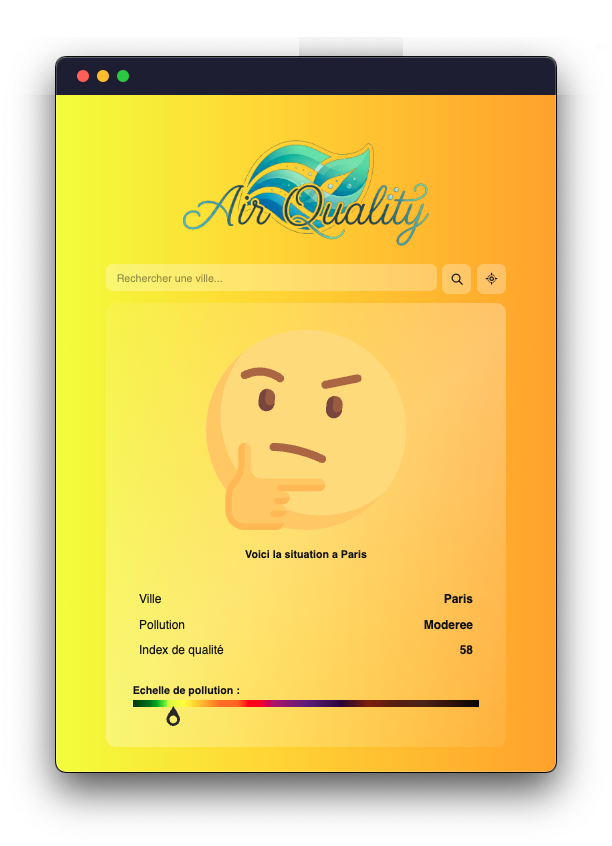
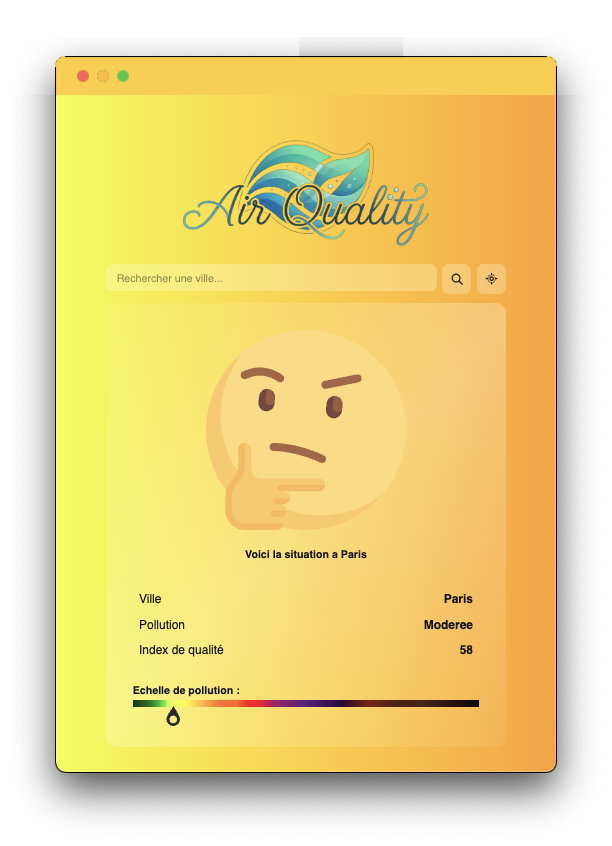
💄 design improvements

diff --git a/src/js/main.js b/src/js/main.js
@@ -1,24 +1,1 @@
-var API_KEY = '0f480cce-edee-4f6e-b0f6-f9e975e4b96f'; var AIRVISUAL = 'https://api.airvisual.com/v2/nearest_city'; var NOMINATIM = 'https://nominatim.openstreetmap.org/search'; var _cache = new Map(); function cacheGet(k) { var e = _cache.get(k); if (!e) return null; if (Date.now() > e.exp) { _cache.delete(k); return null } return e.v } function cacheSet(k, v) { _cache.set(k, { v: v, exp: Date.now() + 300000 }) } var pollutionScale = [{ scale: [0, 50], quality: 'Respirable', src: 'happy', background: 'linear-gradient(to right,#154734,#C4FF33)' }, { scale: [51, 100], quality: 'Moderee', src: 'thinking', background: 'linear-gradient(to right,#f2ff00,#FFAF00)' }, { scale: [101, 150], quality: 'Mauvais', src: 'unhealthy', background: 'linear-gradient(to right,#FFA400,#ff6600)' }, { scale: [151, 200], quality: 'Assez mauvais', src: 'bad', background: 'linear-gradient(to right,#FF5733,#cb2d3e)' }, { scale: [201, 300], quality: 'Vraiment mauvais', src: 'mask', background: 'linear-gradient(to right,#8E54E9,#260038)' }, { scale: [301, Infinity], quality: 'Dangereux', src: 'terrible', background: 'linear-gradient(to right,#572121,#1a0904)' }]; function getScaleEntry(aqi) { return pollutionScale.find(function (o) { return aqi >= o.scale[0] && aqi <= o.scale[1] }) }
-// Extrait le premier #rrggbb du gradient pour theme-color (qui n'accepte que les couleurs solides)
-function extractFirstColor(gradient) { var m = gradient.match(/#[0-9a-fA-F]{6}/); return m ? m[0] : '#4ba0d9' } var loader = document.querySelector('.loader'); var emojiLogo = document.querySelector('.emoji'); var userInformation = document.querySelector('.user-information'); var cityNameEl = document.querySelector('.city-name'); var pollutionInfo = document.querySelector('.pollution-info'); var pollutionValue = document.querySelector('.pollution-value'); var backgroundLayer = document.querySelector('.background-layer'); var locationPointer = document.querySelector('.location-pointer'); var citySearch = document.querySelector('.city-search'); var searchBtn = document.querySelector('.search-btn'); var locationBtn = document.querySelector('.location-btn'); var dropdown = document.getElementById('autocomplete-dropdown'); var themeColorMeta = document.querySelector('meta[name="theme-color"]'); function showLoader() { loader.setAttribute('aria-busy', 'true'); loader.classList.add('active') }
-function hideLoader() { loader.setAttribute('aria-busy', 'false'); loader.classList.remove('active') }
-function showError(msg) { hideLoader(); emojiLogo.src = './src/icons/browser.svg'; userInformation.textContent = msg }
-function getByGeolocation() { citySearch.value = ''; if (!navigator.geolocation) { return getPollutionByIP() } showLoader(); navigator.geolocation.getCurrentPosition(function (pos) { var lat = pos.coords.latitude.toFixed(4); var lon = pos.coords.longitude.toFixed(4); getPollutionByCoords(lat, lon).catch(function () { getPollutionByIP() }) }, function () { getPollutionByIP() }, { timeout: 8000, maximumAge: 300000 }) } async function fetchAirVisual(qs) { var url = AIRVISUAL + '?' + (qs ? qs + '&' : '') + 'key=' + API_KEY; var res = await fetch(url); var json = await res.json(); if (!res.ok || json.status !== 'success') throw new Error(json && json.data && json.data.message ? json.data.message : 'Erreur ' + res.status); return json } async function getPollutionByCoords(lat, lon) { var k = lat + ',' + lon; var cached = cacheGet(k); if (cached) { processPollutionData(cached); return } var data = await fetchAirVisual('lat=' + lat + '&lon=' + lon); cacheSet(k, data); processPollutionData(data) } async function getPollutionByIP() { showLoader(); try { var data = await fetchAirVisual(''); processPollutionData(data) } catch (err) { showError(err.message) } }
-function processPollutionData(d) { var aqi = d.data.current.pollution.aqius; var entry = getScaleEntry(aqi); populateUI({ city: d.data.city, aqi: aqi, quality: entry.quality, src: entry.src, background: entry.background }) }
-function populateUI(data) { emojiLogo.src = 'src/icons/' + data.src + '.svg'; emojiLogo.alt = data.quality; userInformation.textContent = 'Voici la situation a ' + data.city; cityNameEl.textContent = data.city; pollutionInfo.textContent = data.quality; pollutionValue.textContent = data.aqi; backgroundLayer.style.backgroundImage = data.background;// Applique la couleur dominante du gradient à la barre du navigateur
-if (themeColorMeta) themeColorMeta.content = extractFirstColor(data.background); hideLoader(); pointerPlacement(data.aqi)
-}
-function pointerPlacement(aqi) { var clamped = Math.min(aqi, 500);// clientWidth = largeur visible réelle (sans overflow) ; scrollWidth serait faux si le parent déborde
-  var w = locationPointer.parentElement.clientWidth; locationPointer.style.transform = 'translateX(' + ((clamped / 500) * w) + 'px) rotate(180deg)'
-} async function geocodeCity(query) { var params = new URLSearchParams({ q: query, format: 'json', limit: 1, 'accept-language': 'fr', addressdetails: 1 }); var res = await fetch(NOMINATIM + '?' + params, { headers: { 'User-Agent': 'AirQualityApp/1.0' } }); if (!res.ok) throw new Error('Erreur de geocodage'); var data = await res.json(); if (!data.length) throw new Error('Ville introuvable : ' + query); return { lat: parseFloat(data[0].lat).toFixed(4), lon: parseFloat(data[0].lon).toFixed(4) } } async function handleSearch() { var query = citySearch.value.trim(); if (!query) return; closeDropdown(); showLoader(); try { var coords = await geocodeCity(query); await getPollutionByCoords(coords.lat, coords.lon) } catch (err) { showError(err.message) } }
-var _acTimer = null; var _acActive = -1; function debounce(fn, ms) { return function () { var args = arguments; clearTimeout(_acTimer); _acTimer = setTimeout(function () { fn.apply(null, args) }, ms) } } async function fetchSuggestions(query) { var params = new URLSearchParams({ q: query, format: 'json', limit: 5, 'accept-language': 'fr', addressdetails: 1 }); var res = await fetch(NOMINATIM + '?' + params, { headers: { 'User-Agent': 'AirQualityApp/1.0' } }); if (!res.ok) return []; var data = await res.json(); return data.map(function (r) { var city = r.address.city || r.address.town || r.address.village || r.address.county || r.display_name.split(',')[0].trim(); var country = r.address.country || ''; return { label: city, country: country, lat: parseFloat(r.lat).toFixed(4), lon: parseFloat(r.lon).toFixed(4) } }) }
-function openDropdown(items) { dropdown.innerHTML = ''; _acActive = -1; if (!items.length) { closeDropdown(); return } items.forEach(function (item, i) { var li = document.createElement('li'); li.className = 'autocomplete-option'; li.setAttribute('role', 'option'); li.setAttribute('id', 'ac-opt-' + i); li.setAttribute('aria-selected', 'false');// textContent plutôt qu'innerHTML : élimine tout risque XSS sur les noms de villes
-    var citySpan = document.createElement('span'); citySpan.className = 'city-label'; citySpan.textContent = item.label; var countrySpan = document.createElement('span'); countrySpan.className = 'country-label'; countrySpan.textContent = item.country; li.appendChild(citySpan); li.appendChild(countrySpan); li.addEventListener('mousedown', function (e) { e.preventDefault(); selectSuggestion(item) }); dropdown.appendChild(li)
-  }); dropdown.removeAttribute('hidden'); citySearch.setAttribute('aria-expanded', 'true')
-}
-function closeDropdown() { dropdown.setAttribute('hidden', ''); citySearch.setAttribute('aria-expanded', 'false'); citySearch.removeAttribute('aria-activedescendant'); _acActive = -1 }
-function selectSuggestion(item) { citySearch.value = item.label; closeDropdown(); showLoader(); getPollutionByCoords(item.lat, item.lon).catch(function (err) { showError(err.message) }) }
-var onInput = debounce(async function () {
-  var q = citySearch.value.trim(); if (q.length < 2) { closeDropdown(); return }
-  var items = await fetchSuggestions(q); openDropdown(items)
-}, 320); citySearch.addEventListener('input', onInput); citySearch.addEventListener('keydown', function (e) { var opts = dropdown.querySelectorAll('.autocomplete-option'); if (e.key === 'ArrowDown') { e.preventDefault(); _acActive = Math.min(_acActive + 1, opts.length - 1); updateActiveOpt(opts) } else if (e.key === 'ArrowUp') { e.preventDefault(); _acActive = Math.max(_acActive - 1, -1); updateActiveOpt(opts) } else if (e.key === 'Enter') { if (_acActive >= 0 && opts[_acActive]) { opts[_acActive].dispatchEvent(new MouseEvent('mousedown')) } else { handleSearch() } } else if (e.key === 'Escape') { closeDropdown() } }); function updateActiveOpt(opts) { opts.forEach(function (o, i) { o.setAttribute('aria-selected', i === _acActive ? 'true' : 'false') }); if (_acActive >= 0) { citySearch.setAttribute('aria-activedescendant', 'ac-opt-' + _acActive); opts[_acActive].scrollIntoView({ block: 'nearest' }) } else { citySearch.removeAttribute('aria-activedescendant') } } document.addEventListener('click', function (e) { if (!citySearch.contains(e.target) && !dropdown.contains(e.target)) closeDropdown(); }); searchBtn.addEventListener('click', handleSearch); locationBtn.addEventListener('click', getByGeolocation); getByGeolocation()
+var API_KEY = '0f480cce-edee-4f6e-b0f6-f9e975e4b96f'; var AIRVISUAL = 'https://api.airvisual.com/v2/nearest_city'; var NOMINATIM = 'https://nominatim.openstreetmap.org/search'; var _cache = new Map(); function cacheGet(k) { var e = _cache.get(k); if (!e) return null; if (Date.now() > e.exp) { _cache.delete(k); return null } return e.v } function cacheSet(k, v) { _cache.set(k, { v: v, exp: Date.now() + 300000 }) } var pollutionScale = [{ scale: [0, 50], quality: 'Respirable', src: 'happy', background: 'linear-gradient(to right,#154734,#C4FF33)', themeColor: '#539538' }, { scale: [51, 100], quality: 'Moderee', src: 'thinking', background: 'linear-gradient(to right,#f2ff00,#FFAF00)', themeColor: '#f7cf55' }, { scale: [101, 150], quality: 'Mauvais', src: 'unhealthy', background: 'linear-gradient(to right,#FFA400,#ff6600)', themeColor: '#ff7524' }, { scale: [151, 200], quality: 'Assez mauvais', src: 'bad', background: 'linear-gradient(to right,#FF5733,#cb2d3e)', themeColor: '#f83037' }, { scale: [201, 300], quality: 'Vraiment mauvais', src: 'mask', background: 'linear-gradient(to right,#8E54E9,#260038)', themeColor: '#8E54E9' }, { scale: [301, Infinity], quality: 'Dangereux', src: 'terrible', background: 'linear-gradient(to right,#572121,#1a0904)', themeColor: '#572121' }]; function getScaleEntry(aqi) { return pollutionScale.find(function (o) { return aqi >= o.scale[0] && aqi <= o.scale[1] }) } var loader = document.querySelector('.loader'); var emojiLogo = document.querySelector('.emoji'); var userInformation = document.querySelector('.user-information'); var cityNameEl = document.querySelector('.city-name'); var pollutionInfo = document.querySelector('.pollution-info'); var pollutionValue = document.querySelector('.pollution-value'); var locationPointer = document.querySelector('.location-pointer'); var infoBlock = document.querySelector('.information-block'); var citySearch = document.querySelector('.city-search'); var searchBtn = document.querySelector('.search-btn'); var locationBtn = document.querySelector('.location-btn'); var dropdown = document.getElementById('autocomplete-dropdown'); var themeColorMeta = document.querySelector('meta[name="theme-color"]'); var bgA = document.getElementById('bg-a'); var bgB = document.getElementById('bg-b'); bgA.style.backgroundImage = 'linear-gradient(45deg,#4ba0d9,#85d9f8,#ffc200)'; bgA.classList.add('active'); var bgFlash = document.getElementById('bg-flash'); var bgRing = document.getElementById('bg-ring'); var bgScan = document.getElementById('bg-scanline'); var _activeBg = 'a'; var _firstLoad = true; var _reducedMotion = window.matchMedia('(prefers-reduced-motion:reduce)').matches; function _reflow(el) { void el.offsetWidth } function animateBackground(gradient) { var incoming = _activeBg === 'a' ? bgB : bgA; var outgoing = _activeBg === 'a' ? bgA : bgB; incoming.style.backgroundImage = gradient; incoming.classList.add('active'); outgoing.classList.remove('active'); _activeBg = _activeBg === 'a' ? 'b' : 'a'; if (_reducedMotion || _firstLoad) { _firstLoad = false; return } bgFlash.classList.remove('burst'); _reflow(bgFlash); bgFlash.classList.add('burst'); bgRing.classList.remove('expand'); _reflow(bgRing); bgRing.classList.add('expand'); bgScan.classList.remove('sweep'); _reflow(bgScan); bgScan.classList.add('sweep'); infoBlock.classList.remove('glow'); _reflow(infoBlock); infoBlock.classList.add('glow'); } function animateEmoji() { if (_reducedMotion) return; emojiLogo.classList.remove('pop'); _reflow(emojiLogo); emojiLogo.classList.add('pop'); } function showLoader() { loader.setAttribute('aria-busy', 'true'); loader.classList.add('active') } function hideLoader() { loader.setAttribute('aria-busy', 'false'); loader.classList.remove('active') } function showError(msg) { hideLoader(); emojiLogo.src = './src/icons/browser.svg'; userInformation.textContent = msg; } function getByGeolocation() { citySearch.value = ''; if (!navigator.geolocation) return getPollutionByIP(); showLoader(); navigator.geolocation.getCurrentPosition(function (pos) { var lat = pos.coords.latitude.toFixed(4); var lon = pos.coords.longitude.toFixed(4); getPollutionByCoords(lat, lon).catch(function () { getPollutionByIP() }); }, function () { getPollutionByIP() }, { timeout: 8000, maximumAge: 300000 }); } async function fetchAirVisual(qs) { var url = AIRVISUAL + '?' + (qs ? qs + '&' : '') + 'key=' + API_KEY; var res = await fetch(url); var json = await res.json(); if (!res.ok || json.status !== 'success') throw new Error(json && json.data && json.data.message ? json.data.message : 'Erreur ' + res.status); return json; } async function getPollutionByCoords(lat, lon) { var k = lat + ',' + lon; var cached = cacheGet(k); if (cached) { processPollutionData(cached); return } var data = await fetchAirVisual('lat=' + lat + '&lon=' + lon); cacheSet(k, data); processPollutionData(data); } async function getPollutionByIP() { showLoader(); try { var data = await fetchAirVisual(''); processPollutionData(data) } catch (err) { showError(err.message) } } function processPollutionData(d) { var aqi = d.data.current.pollution.aqius; var entry = getScaleEntry(aqi); populateUI({ city: d.data.city, aqi: aqi, quality: entry.quality, src: entry.src, background: entry.background, themeColor: entry.themeColor }); } function populateUI(data) { animateBackground(data.background); emojiLogo.src = 'src/icons/' + data.src + '.svg'; emojiLogo.alt = data.quality; animateEmoji(); userInformation.textContent = 'Voici la situation a ' + data.city; cityNameEl.textContent = data.city; pollutionInfo.textContent = data.quality; pollutionValue.textContent = data.aqi; if (themeColorMeta) themeColorMeta.content = data.themeColor; hideLoader(); pointerPlacement(data.aqi); } function pointerPlacement(aqi) { var clamped = Math.min(aqi, 500); var w = locationPointer.parentElement.clientWidth; locationPointer.style.transform = 'translateX(' + ((clamped / 500) * w) + 'px)rotate(180deg)'; } async function geocodeCity(query) { var params = new URLSearchParams({ q: query, format: 'json', limit: 1, 'accept-language': 'fr', addressdetails: 1 }); var res = await fetch(NOMINATIM + '?' + params, { headers: { 'User-Agent': 'AirQualityApp/1.0' } }); if (!res.ok) throw new Error('Erreur de geocodage'); var data = await res.json(); if (!data.length) throw new Error('Ville introuvable:' + query); return { lat: parseFloat(data[0].lat).toFixed(4), lon: parseFloat(data[0].lon).toFixed(4) }; } async function handleSearch() { var query = citySearch.value.trim(); if (!query) return; closeDropdown(); showLoader(); try { var coords = await geocodeCity(query); await getPollutionByCoords(coords.lat, coords.lon) } catch (err) { showError(err.message) } } var _acTimer = null; var _acActive = -1; function debounce(fn, ms) { return function () { var args = arguments; clearTimeout(_acTimer); _acTimer = setTimeout(function () { fn.apply(null, args) }, ms) }; } async function fetchSuggestions(query) { var params = new URLSearchParams({ q: query, format: 'json', limit: 5, 'accept-language': 'fr', addressdetails: 1 }); var res = await fetch(NOMINATIM + '?' + params, { headers: { 'User-Agent': 'AirQualityApp/1.0' } }); if (!res.ok) return []; var data = await res.json(); return data.map(function (r) { var city = r.address.city || r.address.town || r.address.village || r.address.county || r.display_name.split(',')[0].trim(); return { label: city, country: r.address.country || '', lat: parseFloat(r.lat).toFixed(4), lon: parseFloat(r.lon).toFixed(4) }; }); } function openDropdown(items) { dropdown.innerHTML = ''; _acActive = -1; if (!items.length) { closeDropdown(); return } items.forEach(function (item, i) { var li = document.createElement('li'); li.className = 'autocomplete-option'; li.setAttribute('role', 'option'); li.setAttribute('id', 'ac-opt-' + i); li.setAttribute('aria-selected', 'false'); var cs = document.createElement('span'); cs.className = 'city-label'; cs.textContent = item.label; var co = document.createElement('span'); co.className = 'country-label'; co.textContent = item.country; li.appendChild(cs); li.appendChild(co); li.addEventListener('mousedown', function (e) { e.preventDefault(); selectSuggestion(item) }); dropdown.appendChild(li); }); dropdown.removeAttribute('hidden'); citySearch.setAttribute('aria-expanded', 'true'); } function closeDropdown() { dropdown.setAttribute('hidden', ''); citySearch.setAttribute('aria-expanded', 'false'); citySearch.removeAttribute('aria-activedescendant'); _acActive = -1 } function selectSuggestion(item) { citySearch.value = item.label; closeDropdown(); showLoader(); getPollutionByCoords(item.lat, item.lon).catch(function (err) { showError(err.message) }); } var onInput = debounce(async function () { var q = citySearch.value.trim(); if (q.length < 2) { closeDropdown(); return } openDropdown(await fetchSuggestions(q)); }, 320); citySearch.addEventListener('input', onInput); citySearch.addEventListener('keydown', function (e) { var opts = dropdown.querySelectorAll('.autocomplete-option'); if (e.key === 'ArrowDown') { e.preventDefault(); _acActive = Math.min(_acActive + 1, opts.length - 1); updateActiveOpt(opts) } else if (e.key === 'ArrowUp') { e.preventDefault(); _acActive = Math.max(_acActive - 1, -1); updateActiveOpt(opts) } else if (e.key === 'Enter') { if (_acActive >= 0 && opts[_acActive]) opts[_acActive].dispatchEvent(new MouseEvent('mousedown')); else handleSearch() } else if (e.key === 'Escape') closeDropdown(); }); function updateActiveOpt(opts) { opts.forEach(function (o, i) { o.setAttribute('aria-selected', i === _acActive ? 'true' : 'false') }); if (_acActive >= 0) { citySearch.setAttribute('aria-activedescendant', 'ac-opt-' + _acActive); opts[_acActive].scrollIntoView({ block: 'nearest' }) } else citySearch.removeAttribute('aria-activedescendant'); } document.addEventListener('click', function (e) { if (!citySearch.contains(e.target) && !dropdown.contains(e.target)) closeDropdown() }); searchBtn.addEventListener('click', handleSearch); locationBtn.addEventListener('click', getByGeolocation); getByGeolocation();

diff --git a/src/css/style.css b/src/css/style.css
@@ -1,1 +1,1 @@
-*,::before,::after{box-sizing:border-box;margin:0;padding:0}body{min-height:100vh;font-family:"Inter",sans-serif;color:#111;position:relative;background-image:linear-gradient(45deg,#4ba0d9,#85d9f8,#ffc200);opacity:0;animation:fadeIn 1.5s ease-in-out forwards}@keyframes fadeIn{to{opacity:1}}.background-layer{position:absolute;width:100%;height:100%;top:0;left:0;z-index:-1}.app-container{padding:50px 10px 60px}h1{font-family:Arial,Helvetica,sans-serif;text-align:center;font-size:72px;margin-bottom:50px;text-transform:uppercase;color:#eae2d0c6}.search-wrapper{max-width:600px;margin:0 auto 14px;display:flex;gap:8px;align-items:flex-start}.search-input-wrapper{flex:1;position:relative}.city-search{width:100%;padding:11px 16px;border:none;border-radius:10px;background:rgb(255 255 255 / .28);font-family:inherit;font-size:16px;font-weight:400;color:#111;outline:none;transition:background 0.2s ease}.city-search::placeholder{color:rgb(17 17 17 / .45)}.city-search:focus{background:rgb(255 255 255 / .45)}.search-btn,.location-btn{flex-shrink:0;width:44px;height:44px;border:none;border-radius:10px;background:rgb(255 255 255 / .28);cursor:pointer;display:flex;align-items:center;justify-content:center;transition:background 0.2s ease;color:#111}.search-btn:hover,.location-btn:hover{background:rgb(255 255 255 / .5)}.search-btn:active,.location-btn:active{background:rgb(255 255 255 / .65)}.autocomplete-dropdown{position:absolute;top:calc(100% + 4px);left:0;right:0;background:rgb(255 255 255 / .9);backdrop-filter:blur(12px);-webkit-backdrop-filter:blur(12px);border-radius:10px;list-style:none;z-index:100;max-height:220px;overflow-y:auto;box-shadow:0 8px 24px rgb(0 0 0 / .15)}.autocomplete-dropdown[hidden]{display:none}.autocomplete-option{padding:10px 16px;font-size:15px;cursor:pointer;color:#111;border-radius:6px;margin:3px;transition:background 0.12s;white-space:nowrap;overflow:hidden;text-overflow:ellipsis}.autocomplete-option:hover,.autocomplete-option[aria-selected=true]{background:rgb(75 160 217 / .25)}.autocomplete-option .city-label{font-weight:600}.autocomplete-option .country-label{font-size:13px;color:rgb(17 17 17 / .55);margin-left:6px}.information-block{max-width:600px;margin:0 auto;background-image:linear-gradient(-45deg,rgb(255 255 255 / .075),rgb(255 255 255 / .3),rgb(255 255 255 / .075));border-radius:15px;padding:40px 40px 60px;position:relative}.loader{position:absolute;inset:0;display:flex;justify-content:center;align-items:center;border-radius:5px;background-color:inherit;z-index:1;opacity:0;visibility:hidden;transition:opacity 2s ease-out,visibility .6s ease-out}.loader.active{visibility:visible;opacity:.75}.loader-logo{width:800px;animation:loader 1.8s ease-in-out infinite;will-change:transform}@keyframes loader{50%{transform:rotate(360deg)}}.emoji{display:block;max-width:300px;margin:0 auto 10px}.user-information{text-align:center;margin-bottom:20px;font-weight:bolder}table{margin-bottom:30px;width:100%}table,th{text-align:left}th,td{padding:8px;font-weight:400;font-size:18px}td{text-align:right;font-weight:900}.scale-bar-text{font-weight:600;margin-bottom:7px}.scale-container{width:100%;display:flex;position:relative}.location-pointer{position:absolute;left:-15px;width:30px;margin-top:8px;transform:rotate(180deg);transition:transform 2s ease-in-out}.scale-section{height:10px;flex-grow:1;background-image:rgb(224 211 196 / .25)}.scale-section:nth-child(2){background-image:linear-gradient(90deg,#124000,green,#9dff00)}.scale-section:nth-child(3){background-image:linear-gradient(90deg,#dbff00,#ffff00,#ffc400)}.scale-section:nth-child(4){background-image:linear-gradient(90deg,#ffc400,#ff8000,#ff7700)}.scale-section:nth-child(5){background-image:linear-gradient(90deg,#ff7700,red,#b6006d)}.scale-section:nth-child(6){background-image:linear-gradient(90deg,#ac1e73,#651b89,#2f0047);flex-grow:2}.scale-section:nth-child(7){background-image:linear-gradient(90deg,#2c0042,#7e2900,#59230a,#4e2816,#321202,black);flex-grow:4}.logo{max-width:100%;height:auto}.sr-only{position:absolute;width:1px;height:1px;padding:0;margin:-1px;overflow:hidden;clip:rect(0,0,0,0);white-space:nowrap;border:0}.skip-link{position:absolute;top:-100%;left:8px;padding:8px 14px;background:#111;color:#fff;font-size:14px;border-radius:0 0 6px 6px;z-index:9999;text-decoration:none;transition:top 0.15s}.skip-link:focus{top:0}:focus-visible{outline:3px solid rgb(255 255 255 / .9);outline-offset:3px;border-radius:6px}@media (prefers-reduced-motion:reduce){*,*::before,*::after{animation-duration:0.01ms!important;transition-duration:0.01ms!important}body{opacity:1!important;animation:none!important}}
+*,::before,::after{box-sizing:border-box;margin:0;padding:0}body{min-height:100vh;font-family:"Inter",sans-serif;color:#111;position:relative;background:#4ba0d9;opacity:0;animation:fadeIn 1.5s ease-in-out forwards}@keyframes fadeIn{to{opacity:1}}.bg-layer{position:fixed;width:100%;height:100%;top:0;left:0;z-index:-1;opacity:0;transition:opacity .85s cubic-bezier(.4,0,.2,1);will-change:opacity}.bg-layer.active{opacity:1}.bg-flash{position:fixed;inset:0;z-index:200;pointer-events:none;opacity:0;background:radial-gradient(circle at 50% 50%,rgba(255,255,255,.55) 0%,rgba(255,255,255,.1) 45%,transparent 70%)}.bg-flash.burst{animation:bg-burst .65s cubic-bezier(.2,0,.35,1) forwards}@keyframes bg-burst{0%{opacity:.85;transform:scale(.15)}35%{opacity:.55}100%{opacity:0;transform:scale(2.8)}}.bg-ring{position:fixed;border-radius:50%;border:2.5px solid rgba(255,255,255,.75);width:0;height:0;left:50%;top:50%;translate:-50% -50%;pointer-events:none;z-index:199;opacity:0;box-shadow:0 0 18px rgba(255,255,255,.4),inset 0 0 18px rgba(255,255,255,.2)}.bg-ring.expand{animation:ring-expand .9s cubic-bezier(.1,0,.25,1) forwards}@keyframes ring-expand{0%{width:0;height:0;opacity:.9;border-width:3.5px}60%{opacity:.45}100%{width:240vmax;height:240vmax;opacity:0;border-width:.5px}}.bg-scanline{position:fixed;left:0;right:0;height:3px;top:-3px;z-index:201;pointer-events:none;opacity:0;background:linear-gradient(90deg,transparent,rgba(255,255,255,.8) 30%,rgba(255,255,255,.95) 50%,rgba(255,255,255,.8) 70%,transparent)}.bg-scanline.sweep{animation:scanline-sweep .55s cubic-bezier(.4,0,.6,1) forwards}@keyframes scanline-sweep{0%{top:-3px;opacity:.9}100%{top:105vh;opacity:0}}.app-container{padding:50px 10px 60px}h1{font-family:Arial,Helvetica,sans-serif;text-align:center;font-size:72px;margin-bottom:50px;text-transform:uppercase;color:#eae2d0c6}.search-wrapper{max-width:600px;margin:0 auto 14px;display:flex;gap:8px;align-items:flex-start}.search-input-wrapper{flex:1;position:relative}.city-search{width:100%;padding:11px 16px;border:none;border-radius:10px;background:rgb(255 255 255/.28);font-family:inherit;font-size:16px;font-weight:400;color:#111;outline:none;transition:background .2s ease}.city-search::placeholder{color:rgb(17 17 17/.45)}.city-search:focus{background:rgb(255 255 255/.45)}.search-btn,.location-btn{flex-shrink:0;width:44px;height:44px;border:none;border-radius:10px;background:rgb(255 255 255/.28);cursor:pointer;display:flex;align-items:center;justify-content:center;transition:background .2s ease;color:#111}.search-btn:hover,.location-btn:hover{background:rgb(255 255 255/.5)}.search-btn:active,.location-btn:active{background:rgb(255 255 255/.65)}.autocomplete-dropdown{position:absolute;top:calc(100%+4px);left:0;right:0;background:rgb(255 255 255/.9);backdrop-filter:blur(12px);-webkit-backdrop-filter:blur(12px);border-radius:10px;list-style:none;z-index:100;max-height:220px;overflow-y:auto;box-shadow:0 8px 24px rgb(0 0 0/.15)}.autocomplete-dropdown[hidden]{display:none}.autocomplete-option{padding:10px 16px;font-size:15px;cursor:pointer;color:#111;border-radius:6px;margin:3px;transition:background .12s;white-space:nowrap;overflow:hidden;text-overflow:ellipsis}.autocomplete-option:hover,.autocomplete-option[aria-selected=true]{background:rgb(75 160 217/.25)}.autocomplete-option .city-label{font-weight:600}.autocomplete-option .country-label{font-size:13px;color:rgb(17 17 17/.55);margin-left:6px}.information-block{max-width:600px;margin:0 auto;background-image:linear-gradient(-45deg,rgb(255 255 255/.075),rgb(255 255 255/.3),rgb(255 255 255/.075));border-radius:15px;padding:40px 40px 60px;position:relative;transition:box-shadow .15s ease}.information-block.glow{animation:info-glow .7s ease-out forwards}@keyframes info-glow{0%{box-shadow:0 0 0 rgba(255,255,255,0)}25%{box-shadow:0 0 55px rgba(255,255,255,.55),0 0 20px rgba(255,255,255,.3)}100%{box-shadow:0 0 0 rgba(255,255,255,0)}}.loader{position:absolute;inset:0;display:flex;justify-content:center;align-items:center;border-radius:5px;background-color:inherit;z-index:1;opacity:0;visibility:hidden;transition:opacity 2s ease-out,visibility .6s ease-out}.loader.active{visibility:visible;opacity:.75}.loader-logo{width:800px;animation:loader 1.8s ease-in-out infinite;will-change:transform}@keyframes loader{50%{transform:rotate(360deg)}}.emoji{display:block;max-width:300px;margin:0 auto 10px;will-change:transform,opacity}.emoji.pop{animation:emoji-pop .5s cubic-bezier(.34,1.56,.64,1) forwards}@keyframes emoji-pop{0%{transform:scale(.4);opacity:0;filter:brightness(2.5)}60%{filter:brightness(1.1)}100%{transform:scale(1);opacity:1;filter:brightness(1)}}.user-information{text-align:center;margin-bottom:20px;font-weight:bolder}table{margin-bottom:30px;width:100%}table,th{text-align:left}th,td{padding:8px;font-weight:400;font-size:18px}td{text-align:right;font-weight:900}.scale-bar-text{font-weight:600;margin-bottom:7px}.scale-container{width:100%;display:flex;position:relative}.location-pointer{position:absolute;left:-15px;width:30px;margin-top:8px;transform:rotate(180deg);transition:transform 2s ease-in-out}.scale-section{height:10px;flex-grow:1;background-image:rgb(224 211 196/.25)}.scale-section:nth-child(2){background-image:linear-gradient(90deg,#124000,green,#9dff00)}.scale-section:nth-child(3){background-image:linear-gradient(90deg,#dbff00,#ffff00,#ffc400)}.scale-section:nth-child(4){background-image:linear-gradient(90deg,#ffc400,#ff8000,#ff7700)}.scale-section:nth-child(5){background-image:linear-gradient(90deg,#ff7700,red,#b6006d)}.scale-section:nth-child(6){background-image:linear-gradient(90deg,#ac1e73,#651b89,#2f0047);flex-grow:2}.scale-section:nth-child(7){background-image:linear-gradient(90deg,#2c0042,#7e2900,#59230a,#4e2816,#321202,black);flex-grow:4}.logo{max-width:100%;height:auto}.sr-only{position:absolute;width:1px;height:1px;padding:0;margin:-1px;overflow:hidden;clip:rect(0,0,0,0);white-space:nowrap;border:0}.skip-link{position:absolute;top:-100%;left:8px;padding:8px 14px;background:#111;color:#fff;font-size:14px;border-radius:0 0 6px 6px;z-index:9999;text-decoration:none;transition:top .15s}.skip-link:focus{top:0}:focus-visible{outline:3px solid rgb(255 255 255/.9);outline-offset:3px;border-radius:6px}@media(prefers-reduced-motion:reduce){*,*::before,*::after{animation-duration:.01ms!important;transition-duration:.01ms!important}body{opacity:1!important;animation:none!important}}

diff --git a/index.html b/index.html
@@ -1,1 +1,1 @@
-<!DOCTYPE html><html lang="fr"><head><meta charset="UTF-8" /><meta name="viewport" content="width=device-width, initial-scale=1.0" /><title>Qualit&#233; de l&#39;air en temps r&#233;el &#8211; Air Quality</title><meta name="description" content="Consultez la qualit&#233; de l&#39;air en temps r&#233;el dans votre ville ou partout dans le monde. Indice AQI, niveau de pollution et recommandations sant&#233;."><meta name="robots" content="index, follow"><meta name="theme-color" content="#4ba0d9"><meta http-equiv="Content-Security-Policy" content="default-src 'self'; connect-src 'self' https://api.airvisual.com https://nominatim.openstreetmap.org; font-src https://fonts.gstatic.com; style-src 'self' https://fonts.googleapis.com; img-src 'self' data:; script-src 'self'"><meta property="og:type" content="website"><meta property="og:locale" content="fr_FR"><meta property="og:title" content="Qualité de l'air en temps réel : Air Quality"><meta property="og:description" content="Indice AQI, niveau de pollution pour votre ville."><meta property="og:image" content="src/logo/airQ.webp"><link rel="icon" href="src/logo/airQualityIcon.png" type="image/png"><link rel="dns-prefetch" href="https://api.airvisual.com"><link rel="dns-prefetch" href="https://nominatim.openstreetmap.org"><link rel="preload" as="image" href="src/logo/airQualityW.png"><link rel="stylesheet" href="src/css/style.css"><link rel="stylesheet" href="https://fonts.googleapis.com/css2?family=Inter:wght@400;600;700;900&display=swap" media="print" onload="this.media='all'"><noscript><link rel="stylesheet" href="https://fonts.googleapis.com/css2?family=Inter:wght@400;600;700;900&display=swap"></noscript><script type="application/ld+json"> { "@context": "https://schema.org", "@type": "WebApplication", "name": "Air Quality", "description": "Application de suivi de la qualit&#233; de l&#39;air en temps r&#233;el", "applicationCategory": "EnvironmentApplication", "inLanguage": "fr", "offers": { "@type": "Offer", "price": "0", "priceCurrency": "EUR" } } </script></head><body><h1 class="sr-only">Qualité de l'air en temps réel : Indice AQI par ville</h1><a href="#main-content" class="skip-link">Aller au contenu principal</a><div class="background-layer" aria-hidden="true"></div><div class="app-container" role="main" id="main-content"><div align="center"><img src="src/logo/airQ.webp" alt="Air Quality : Qualité de l'air" class="logo" height="50" fetchpriority="high"></div><div class="search-wrapper" role="search" aria-label="Recherche de ville"><div class="search-input-wrapper"><input type="text" role="combobox" class="city-search" placeholder="Rechercher une ville..." autocomplete="off" spellcheck="false" aria-label="Nom de la ville" aria-autocomplete="list" aria-controls="autocomplete-dropdown" aria-expanded="false" aria-haspopup="listbox" /><ul id="autocomplete-dropdown" class="autocomplete-dropdown" role="listbox" aria-label="Suggestions de villes" hidden></ul></div><button class="search-btn" aria-label="Lancer la recherche" title="Rechercher" type="button"><svg aria-hidden="true" focusable="false" width="20" height="20" viewBox="0 0 24 24" fill="none" stroke="currentColor" stroke-width="2.2" stroke-linecap="round" stroke-linejoin="round"><circle cx="11" cy="11" r="7"/><line x1="16.5" y1="16.5" x2="22" y2="22"/></svg></button><button class="location-btn" aria-label="Utiliser la géolocalisation GPS" title="Ma position GPS" type="button"><svg aria-hidden="true" focusable="false" width="20" height="20" viewBox="0 0 24 24" fill="none" stroke="currentColor" stroke-width="2.2" stroke-linecap="round" stroke-linejoin="round"><circle cx="12" cy="12" r="3"/><path d="M12 2v3M12 19v3M2 12h3M19 12h3"/><circle cx="12" cy="12" r="7" stroke-dasharray="3 2" opacity="0.5"/></svg></button></div><div class="information-block"><div class="loader active" role="status" aria-label="Chargement" aria-busy="true"><img src="src/icons/biodegradable.svg" alt="" class="loader-logo" aria-hidden="true" width="200" height="200"></div><img src="src/icons/magnifying-glass.svg" alt="" class="emoji" aria-hidden="true" loading="lazy" width="300" height="300"><br><p class="user-information" role="status">A propos de votre localisation</p><br><table aria-label="Données de qualité; de l'air"><tbody><tr><th class="label" scope="row">Ville</th><td class="city-name">...</td></tr><tr><th class="label" scope="row">Pollution</th><td class="pollution-info">...</td></tr><tr><th class="label" scope="row">Index de qualité</th><td class="pollution-value">...</td></tr></tbody></table><p class="scale-bar-text">Echelle de pollution :</p><div class="scale-container" role="img" aria-label="Echelle de pollution de bon à dangereux"><img src="src/icons/location.svg" alt="Votre position sur l'échelle" class="location-pointer" loading="lazy" width="30" height="30"><div class="scale-section"></div><div class="scale-section"></div><div class="scale-section"></div><div class="scale-section"></div><div class="scale-section"></div><div class="scale-section"></div></div></div></div><script src="src/js/main.js" defer></script></body></html>
+<!DOCTYPE html><html lang="fr"><head><meta charset="UTF-8"/><meta name="viewport" content="width=device-width,initial-scale=1.0"/><title>Qualité de l'air en temps réel – Air Quality</title><meta name="description" content="Consultez la qualité de l'air en temps réel dans votre ville ou partout dans le monde. Indice AQI, niveau de pollution et recommandations santé."><meta name="robots" content="index, follow"><meta name="theme-color" content="#4ba0d9"><meta http-equiv="Content-Security-Policy" content="default-src 'self'; connect-src 'self' https://api.airvisual.com https://nominatim.openstreetmap.org; font-src https://fonts.gstatic.com; style-src 'self' https://fonts.googleapis.com; img-src 'self' data:; script-src 'self'"><meta property="og:type" content="website"><meta property="og:locale" content="fr_FR"><meta property="og:title" content="Qualité de l'air en temps réel : Air Quality"><meta property="og:description" content="Indice AQI, niveau de pollution pour votre ville."><meta property="og:image" content="src/logo/airQ.webp"><link rel="icon" href="assets/icon/logo-air-quality.png" type="image/png"><link rel="dns-prefetch" href="https://api.airvisual.com"><link rel="dns-prefetch" href="https://nominatim.openstreetmap.org"><link rel="preload" as="image" href="src/logo/airQualityW.png"><link rel="stylesheet" href="src/css/style.css"><link rel="stylesheet" href="https://fonts.googleapis.com/css2?family=Inter:wght@400;600;700;900&display=swap" media="print" onload="this.media='all'"><noscript><link rel="stylesheet" href="https://fonts.googleapis.com/css2?family=Inter:wght@400;600;700;900&display=swap"></noscript><script type="application/ld+json">{"@context":"https://schema.org","@type":"WebApplication","name":"Air Quality","description":"Application de suivi de la qualité de l'air en temps réel","applicationCategory":"EnvironmentApplication","inLanguage":"fr","offers":{"@type":"Offer","price":"0","priceCurrency":"EUR"}}</script></head><body><h1 class="sr-only">Qualité de l'air en temps réel : Indice AQI par ville</h1><a href="#main-content" class="skip-link">Aller au contenu principal</a><div class="bg-layer" id="bg-a" aria-hidden="true"></div><div class="bg-layer" id="bg-b" aria-hidden="true"></div><div class="bg-flash" id="bg-flash" aria-hidden="true"></div><div class="bg-ring" id="bg-ring" aria-hidden="true"></div><div class="bg-scanline" id="bg-scanline" aria-hidden="true"></div><div class="app-container" role="main" id="main-content"><div align="center"><img src="src/logo/airQ.webp" alt="Air Quality : Qualité de l'air" class="logo" height="50" fetchpriority="high"></div><div class="search-wrapper" role="search" aria-label="Recherche de ville"><div class="search-input-wrapper"><input type="text" role="combobox" class="city-search" placeholder="Rechercher une ville..." autocomplete="off" spellcheck="false" aria-label="Nom de la ville" aria-autocomplete="list" aria-controls="autocomplete-dropdown" aria-expanded="false" aria-haspopup="listbox"/><ul id="autocomplete-dropdown" class="autocomplete-dropdown" role="listbox" aria-label="Suggestions de villes" hidden></ul></div><button class="search-btn" aria-label="Lancer la recherche" title="Rechercher" type="button"><svg aria-hidden="true" focusable="false" width="20" height="20" viewBox="0 0 24 24" fill="none" stroke="currentColor" stroke-width="2.2" stroke-linecap="round" stroke-linejoin="round"><circle cx="11" cy="11" r="7"/><line x1="16.5" y1="16.5" x2="22" y2="22"/></svg></button><button class="location-btn" aria-label="Utiliser la géolocalisation GPS" title="Ma position GPS" type="button"><svg aria-hidden="true" focusable="false" width="20" height="20" viewBox="0 0 24 24" fill="none" stroke="currentColor" stroke-width="2.2" stroke-linecap="round" stroke-linejoin="round"><circle cx="12" cy="12" r="3"/><path d="M12 2v3M12 19v3M2 12h3M19 12h3"/><circle cx="12" cy="12" r="7" stroke-dasharray="3 2" opacity="0.5"/></svg></button></div><div class="information-block"><div class="loader active" role="status" aria-label="Chargement" aria-busy="true"><img src="src/icons/biodegradable.svg" alt="" class="loader-logo" aria-hidden="true" width="200" height="200"></div><img src="src/icons/magnifying-glass.svg" alt="" class="emoji" aria-hidden="true" loading="lazy" width="300" height="300"><br><p class="user-information" role="status">A propos de votre localisation</p><br><table aria-label="Données de qualité de l'air"><tbody><tr><th class="label" scope="row">Ville</th><td class="city-name">...</td></tr><tr><th class="label" scope="row">Pollution</th><td class="pollution-info">...</td></tr><tr><th class="label" scope="row">Index de qualité</th><td class="pollution-value">...</td></tr></tbody></table><p class="scale-bar-text">Echelle de pollution :</p><div class="scale-container" role="img" aria-label="Echelle de pollution de bon à dangereux"><img src="src/icons/location.svg" alt="Votre position sur l'échelle" class="location-pointer" loading="lazy" width="30" height="30"><div class="scale-section"></div><div class="scale-section"></div><div class="scale-section"></div><div class="scale-section"></div><div class="scale-section"></div><div class="scale-section"></div></div></div></div><script src="src/js/main.js" defer></script></body></html>

diff --git a/readme.md b/readme.md
@@ -5,4 +5,4 @@ Cette web App donne la qualité de l'air via une API.
 Cliquez sur la capture pour l'utiliser.
 
 <div align="center">
-<a href="https://mikl5.github.io/airQuality/"><img src="assets/screenshot/airQuality.webp" alt="AirQuality"></a>
+<a href="https://mikl5.github.io/air-quality/"><img src="assets/screenshot/airQuality.webp" alt="AirQuality"></a>
